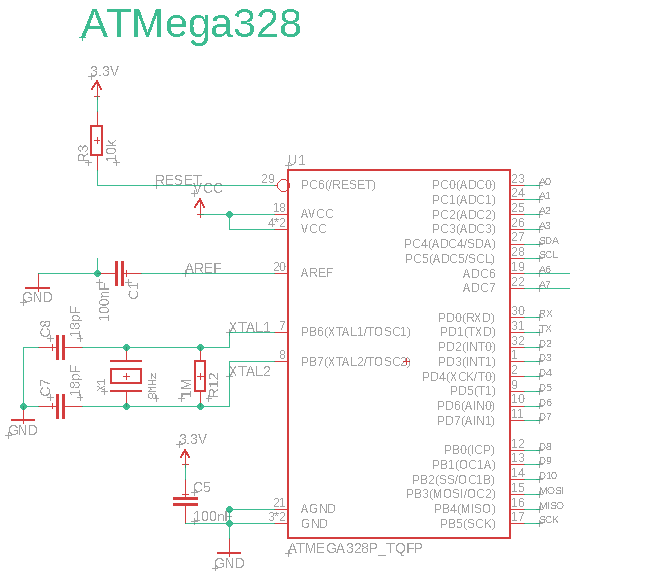
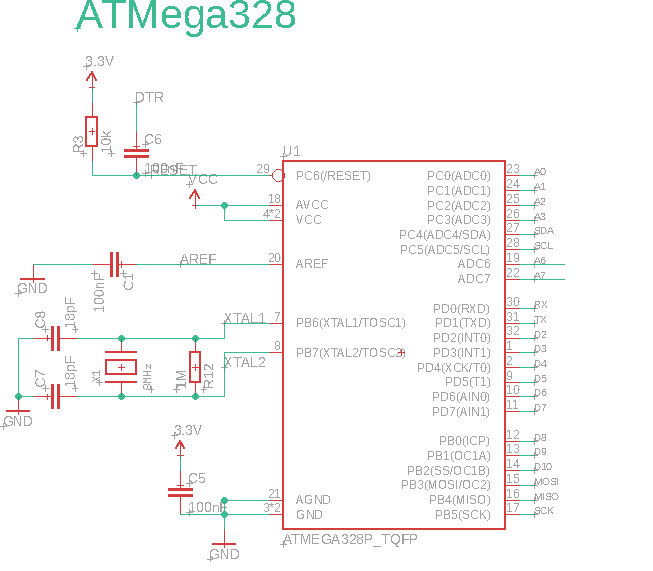
update CO2 gas sensor and reset

Changed region(s): [[0.0, 0.0893, 0.8576, 0.9825], [0.1225, 0.0, 0.4594, 0.0893], [0.2144, 0.1489, 0.245, 0.1786]]

diff --git a/README.md b/README.md
@@ -10,9 +10,12 @@ Gaz sensor on sparkfun
 https://www.sparkfun.com/products/8891
 https://www.sparkfun.com/products/9404
 
-CO2 sensor MH-Z16
+CO2 sensor MH-Z16: 3.3v (for RX / TX) + 5v!!!!
+BETTER: CO2 sensor MH-Z19: 3.3v (for RX / TX) + 5v!!!!
 
-Gaz sensor: MQ4 MQ7 MQ8
+Gaz sensor: MQ4 MQ7 (requires 2 voltages) !!!) MQ8
+
+https://www.mysensors.org/build/gas
 
 Humidity sensor : DHT22
 
@@ -42,9 +45,9 @@ https://www.alibaba.com/product-detail/A102-China-sup
 | PC7  | A7       | Sensor4               |     |
 | PD0  | RX       | FTDI                  |     |
 | PD1  | TX       | FTDI                  |     |
-| PD2  | D2       | Softwire I2C SCL      |     |
+| PD2  | D2       | Soft RX - MH-Z19      |     |
 | PD3  | D3       | Sensor3 on            | PWM |
-| PD4  | D4       | Softwire I2C SDA      |     |
+| PD4  | D4       | Soft TX - MH-Z19      |     |
 | PD5  | D5       | Sensor4 on            | PWM |
 | PD6  | D6       | Onewire (temperature) | PWM |
 | PD7  | D7       | LCD1                  |     |
@@ -54,6 +57,8 @@ https://www.alibaba.com/product-detail/A102-China-sup
 | PB3  | MOSI D11 | LCD5                  | PWM |
 | PB4  | MISO D12 | LCD6                  |     |
 | PB5  | SCK D13  | LCD7 (background)     |     |
+
+Attenion: footprint of MH-Z19 should be directly on baord
 
 ## Power supply
 
